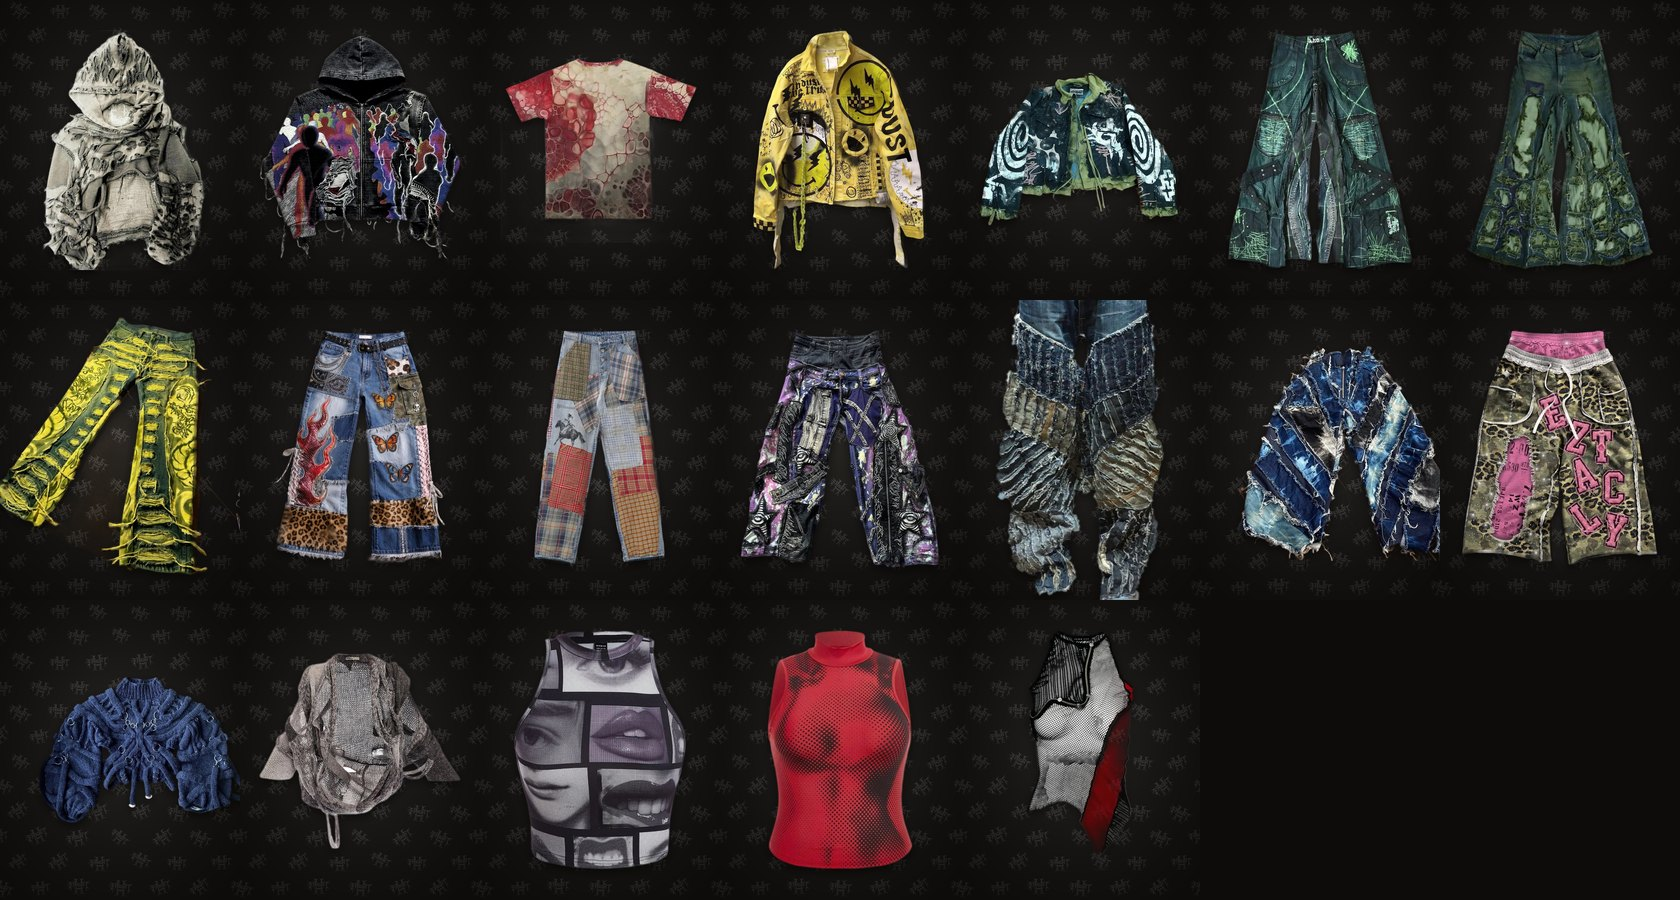
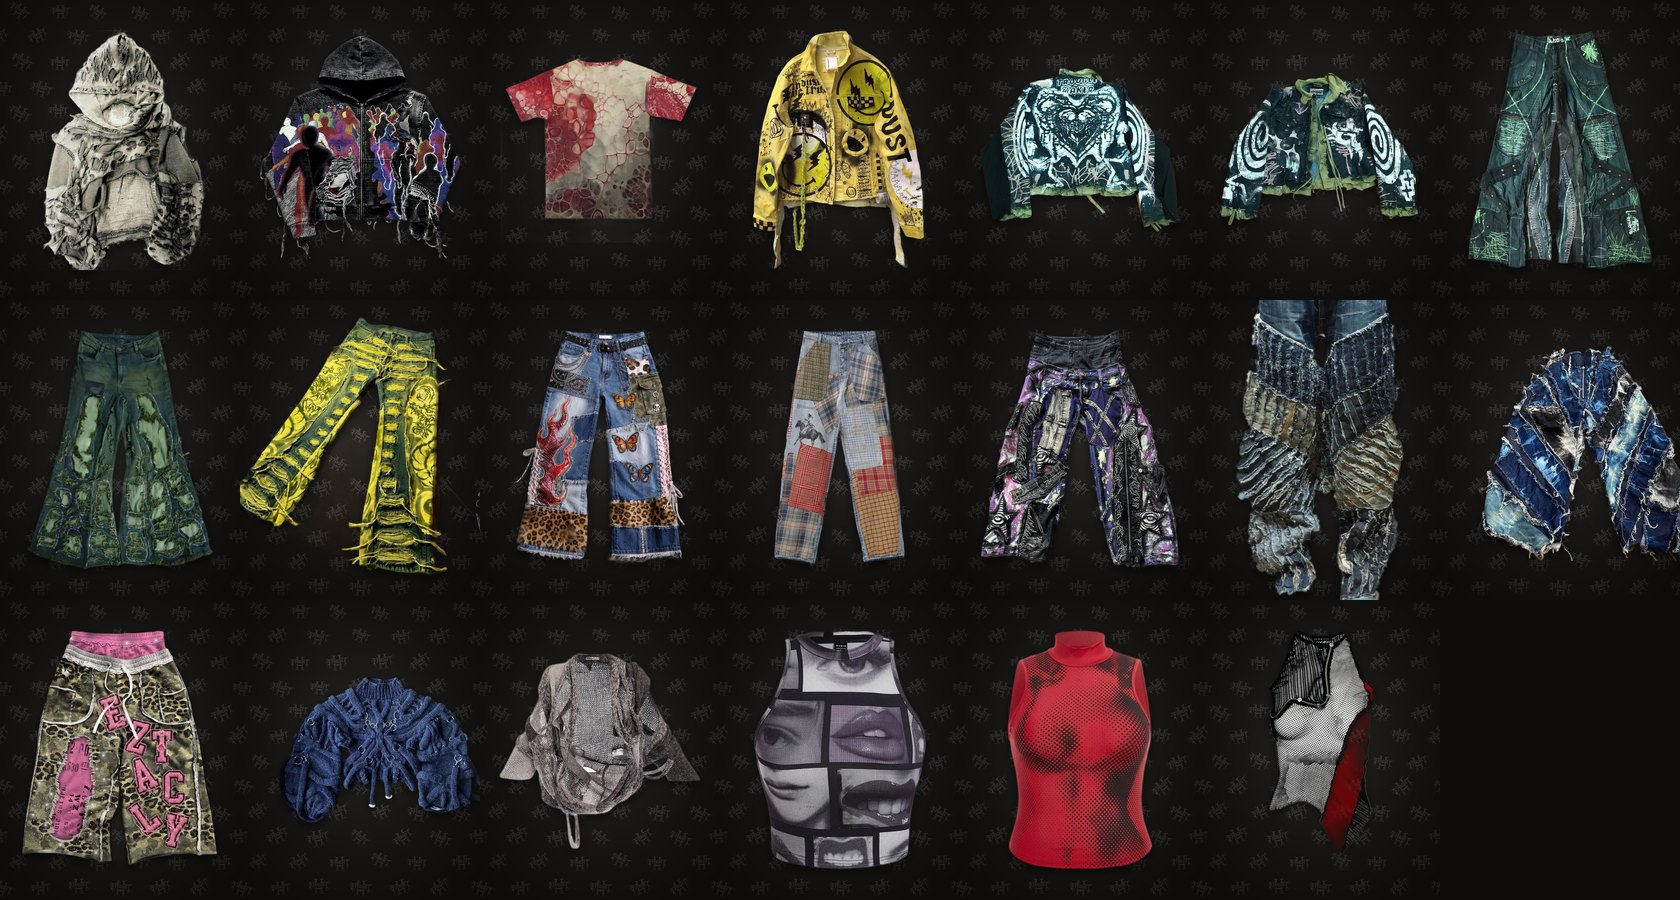
Solo las fotos con el fondo de Hight en las fichas
Las fotos originales salen de las 19 fichas (siguen en Contenido > Archivos) y queda
la foto sobre el fondo de logos; la Chaqueta Trouble Maker suma su espalda sobre el
fondo. Los puntos de la Anatomía y de la Lupa del Jean Flare Patchwork Leopardo se
miden sobre la foto nueva, y la Lupa vuelve a tomar la segunda foto como espalda.
preparar.py saca también la espalda recortada, y el Branding Book muestra la tienda así.

Claude-Session: https://claude.ai/code/session_01VemMYMk8Qmo9eMWquZXv9R

diff --git a/docs/branding-book/index.html b/docs/branding-book/index.html
@@ -1003,18 +1003,18 @@ td:first-child { white-space: nowrap; }
     <div class="cap-top t-label"><span>(06) Fotografía</span><span>MED/COL</span></div>
     <div class="cap-head">
       <h2 class="t-l">La prenda sobre el fondo de logos</h2>
-      <p class="lead">La foto de producto sigue una sola receta para que toda la colección se vea igual. Las fotos de la tienda no se tocan: se trabaja sobre copias recortadas, que van sobre el fondo de logos plateados.</p>
+      <p class="lead">La foto de producto sigue una sola receta para que toda la colección se vea igual. La foto original no se edita: se recorta una copia, se pone sobre el fondo de logos plateados y esa es la única foto de la ficha.</p>
     </div>
 
     <div class="antes-despues">
       <figure>
         <div class="copia gira-3"><img src="img/prendas/original-jean-flare-patchwork-leopardo.jpg" alt="Foto original del Jean Flare Patchwork Leopardo sobre un piso de cemento" width="533" height="800" loading="lazy"></div>
-        <figcaption class="t-label muted">La foto de la tienda, tal cual · primera en la ficha</figcaption>
+        <figcaption class="t-label muted">La foto original · queda guardada, no va en la ficha</figcaption>
       </figure>
       <p class="flecha" aria-hidden="true">→</p>
       <figure>
         <div class="copia gira-4"><span class="cinta"></span><img src="img/prendas/jean-flare-patchwork-leopardo.jpg" alt="El mismo jean recortado sobre el fondo de logos de Hight" width="640" height="800" loading="lazy"></div>
-        <figcaption class="t-label muted">La copia sobre el fondo · va después de las originales</figcaption>
+        <figcaption class="t-label muted">La copia sobre el fondo · es la foto de la ficha</figcaption>
       </figure>
     </div>
 
@@ -1024,7 +1024,8 @@ td:first-child { white-space: nowrap; }
         <div><dt class="t-label">Prenda</dt><dd>Centrada, al 80 % del alto, con una sombra suave debajo. Nada de sombras duras.</dd></div>
         <div><dt class="t-label">Fondo</dt><dd>El fondo de logos plateados sobre carbón, apagado en las orillas y con una luz cálida en el centro. El mismo para toda la colección.</dd></div>
         <div><dt class="t-label">Corte</dt><dd>Si la foto original corta la prenda por un lado, ese lado va contra el borde, para que el corte se vea a propósito. Si la corta arriba y abajo, va de alto completo.</dd></div>
-        <div><dt class="t-label">Texto alternativo</dt><dd>«Nombre de la prenda, sobre el fondo de Hight».</dd></div>
+        <div><dt class="t-label">En la ficha</dt><dd>Solo las fotos sobre el fondo: el frente y, si la prenda tiene, la espalda. Las originales quedan en Contenido &gt; Archivos de Shopify.</dd></div>
+        <div><dt class="t-label">Texto alternativo</dt><dd>«Nombre de la prenda, sobre el fondo de Hight»; la espalda, «Nombre de la prenda, espalda, sobre el fondo de Hight».</dd></div>
       </dl>
       <div class="bloque">
         <p class="t-label">Fotos por prenda, en este orden</p>
@@ -1230,7 +1231,7 @@ Prendas intervenidas a mano y piezas de archivo.
           <figure class="telefono"><img src="img/tienda/tienda-ficha-cel.jpg" alt="Ficha del Jean Flare Patchwork Leopardo en el teléfono" width="390" height="844" loading="lazy"><figcaption class="t-label muted">Ficha en el teléfono</figcaption></figure>
         </div>
         <ul class="lista">
-          <li>Las fotos van como copias impresas: la original primero y la de fondo de logos después. En el teléfono se deslizan con contador «01 / 02».</li>
+          <li>Las fotos van como copias impresas y todas están sobre el fondo de logos: el frente y, si la prenda tiene, la espalda. En el teléfono se deslizan con contador «01 / 02».</li>
           <li>Cada pieza se gira en 360°: frente, costado, espalda, desde arriba y desde abajo.</li>
           <li>Los datos de la pieza, la guía de tallas, «Combínala con» y lo que cuesta cada puesta: «Si la usas 100 veces, cada puesta te sale en $6.900».</li>
           <li>Los botones dicen lo que pasa, con verbo y en Space Mono: VER LAS PIEZAS, AGREGAR, VER LA COLECCIÓN, MEZCLAR.</li>
@@ -1372,6 +1373,7 @@ Prendas intervenidas a mano y piezas de archivo.
           <tr><td>Tipografías</td><td>assets/anton-latin.woff2 · space-grotesk-latin.woff2 · space-mono-400-latin.woff2 · space-mono-700-latin.woff2</td><td>WOFF2; también en Google Fonts</td></tr>
           <tr><td>Fondo de logos</td><td>bocetos/fondos/ (cuadro-plata.png, historia-plata.png, prenda-plata.png)</td><td>PNG</td></tr>
           <tr><td>Fotos sobre el fondo</td><td>bocetos/fondos/prendas/</td><td>JPG de 1.600 × 2.000</td></tr>
+          <tr><td>Fotos originales</td><td>Shopify, Contenido &gt; Archivos (ya no están en las fichas)</td><td>JPG</td></tr>
           <tr><td>Prendas recortadas</td><td>bocetos/instagram/imagenes/</td><td>WEBP con fondo transparente</td></tr>
           <tr><td>Posts</td><td>bocetos/instagram/posts/</td><td>JPG de 1.080 × 1.350</td></tr>
           <tr><td>Bio, pies de foto y fechas</td><td>bocetos/instagram/textos.md</td><td>Texto</td></tr>

diff --git a/bocetos/instagram/preparar.py b/bocetos/instagram/preparar.py
@@ -3,7 +3,8 @@
 
 Deja en imagenes/:
   <prenda>-recorte.webp   cada prenda sola, sobre fondo transparente (con la máscara del generador 360), para las
-                          copias impresas de los posts y los reels
+                          copias impresas de los posts y los reels y para las fotos de la tienda sobre el fondo de Hight
+  <prenda>-espalda-recorte.webp   la espalda, en las prendas que tienen foto de la espalda (ESPALDAS)
   <prenda>-foto.webp      la foto completa, para la anatomía del jean y la lupa de la Chaqueta Smiley Ácido
   detalle-<nombre>.webp   un detalle de cerca, cuadrado, para el post de los seis detalles
   chaqueta-blood-rose-dibujo.webp   el dibujo de la chaqueta, que todavía no tiene foto
@@ -103,6 +104,18 @@ DETALLES = [
 ]
 # Fotos completas que usan los posts (la anatomía del jean y la lupa).
 FOTOS = ['jean-flare-patchwork-leopardo', 'chaqueta-smiley-acido']
+# Prendas con foto de la espalda (espalda.jpg y espalda-mascara.png en la carpeta del 360).
+ESPALDAS = ['chaqueta-trouble-maker']
+
+
+def recorte(d, nombre):
+    """La foto `nombre`.jpg de la carpeta `d` y la prenda sola, recortada con `nombre`-mascara.png."""
+    foto = Image.open(os.path.join(d, f'{nombre}.jpg')).convert('RGB')
+    mask = Image.open(os.path.join(d, f'{nombre}-mascara.png')).convert('L').resize(foto.size, Image.BILINEAR)
+    mask = mask.filter(ImageFilter.GaussianBlur(1.0))
+    cut = foto.copy()
+    cut.putalpha(mask)
+    return foto, defringe(crop_alpha(cut))
 
 
 def detail(cut, cx, cy, side):
@@ -119,13 +132,7 @@ def main():
     out = os.path.join(os.path.dirname(os.path.abspath(__file__)), 'imagenes')
     os.makedirs(out, exist_ok=True)
     for h in PRENDAS:
-        d = os.path.join(work, 'productos', h)
-        foto = Image.open(os.path.join(d, 'foto.jpg')).convert('RGB')
-        mask = Image.open(os.path.join(d, 'foto-mascara.png')).convert('L').resize(foto.size, Image.BILINEAR)
-        mask = mask.filter(ImageFilter.GaussianBlur(1.0))
-        cut = foto.copy()
-        cut.putalpha(mask)
-        cut = defringe(crop_alpha(cut))
+        foto, cut = recorte(os.path.join(work, 'productos', h), 'foto')
         cut.save(os.path.join(out, f'{h}-recorte.webp'), quality=88)
         if h in FOTOS:
             full = foto.copy()
@@ -134,6 +141,10 @@ def main():
                 full = full.resize((round(full.width * s), round(full.height * s)), Image.LANCZOS)
             full.save(os.path.join(out, f'{h}-foto.webp'), quality=88)
         print(h, cut.size)
+    for h in ESPALDAS:
+        _, cut = recorte(os.path.join(work, 'productos', h), 'espalda')
+        cut.save(os.path.join(out, f'{h}-espalda-recorte.webp'), quality=88)
+        print(h, 'espalda', cut.size)
     for h, name, cx, cy, side in DETALLES:
         cut = Image.open(os.path.join(out, f'{h}-recorte.webp')).convert('RGBA')
         detail(cut, cx, cy, side).save(os.path.join(out, f'detalle-{name}.webp'), quality=88)

diff --git a/bocetos/fondos/README.md b/bocetos/fondos/README.md
@@ -16,20 +16,20 @@ el 80 % del alto, sin sombras duras y el mismo fondo para toda la colección.
 | --- | --- | --- |
 | `prenda-plata.png` | 1600 × 2000 | El fondo solo, con el logo plateado tal cual. |
 | `prenda-plata-contorno.png` | 1600 × 2000 | El fondo solo, con el logo en contorno plateado. |
-| `prendas/<prenda>.jpg` | 1600 × 2000 | Las 19 prendas del Drop 01 que tienen foto, cada una sobre el fondo plateado, con una sombra suave. |
-| `prendas.jpg` | | Las 19 juntas, para verlas de un vistazo. |
+| `prendas/<prenda>.jpg` | 1600 × 2000 | Las 19 prendas del Drop 01 que tienen foto, cada una sobre el fondo plateado, con una sombra suave, y la espalda de la Chaqueta Trouble Maker (`chaqueta-trouble-maker-espalda.jpg`). |
+| `prendas.jpg` | | Las 20 juntas, para verlas de un vistazo. |
 
-Las prendas salen de copias recortadas de las fotos de la tienda (`../instagram/imagenes/`); las fotos de la tienda no se
-tocan. Las que la foto original corta por un lado (el Jean Wide Patchwork Índigo, el Tejido Anillos Índigo y el Jean
+Las prendas salen de copias recortadas de las fotos originales (`../instagram/imagenes/`); las fotos originales no se
+editan. Las que la foto original corta por un lado (el Jean Wide Patchwork Índigo, el Tejido Anillos Índigo y el Jean
 Flare Dragón Ácido) van con ese lado contra el borde, para que el corte se vea a propósito; el Jean Wide Fleco Índigo,
 que la foto corta arriba y abajo, va de alto completo. La Chaqueta Blood Rose no
 está porque todavía no tiene foto.
 
-Las 19 ya están en la tienda: cada una va en su ficha después de las fotos originales, con el texto alternativo
-«*Prenda*, sobre el fondo de Hight». En el catálogo aparece al pasar el cursor por la tarjeta, porque es la segunda foto
-(en la Chaqueta Trouble Maker la segunda es la espalda, que es la que se ve). La
-Lupa del inicio toma la siguiente foto de la ficha como espalda, pero se salta la que tiene ese texto, así que el Jean
-Flare Patchwork Leopardo y el Tejido Anillos Índigo siguen sin espalda y la Chaqueta Trouble Maker sigue con la suya.
+Son las fotos de la tienda: cada ficha tiene solo su foto sobre el fondo, con el texto alternativo «*Prenda*, sobre el
+fondo de Hight», y la Chaqueta Trouble Maker tiene además su espalda. Las fotos originales se quitaron de las fichas y
+siguen guardadas en Contenido > Archivos de Shopify. La Lupa del inicio toma la segunda foto de la ficha como espalda,
+así que solo la chaqueta tiene espalda; los puntos de la Anatomía y de la Lupa del Jean Flare Patchwork Leopardo están
+medidos sobre su foto con el fondo.
 
 Para una foto nueva, fotografía la prenda sobre un fondo liso, recórtala y ponla encima de `prenda-plata.png` con el
 mismo tamaño y margen que las demás.
